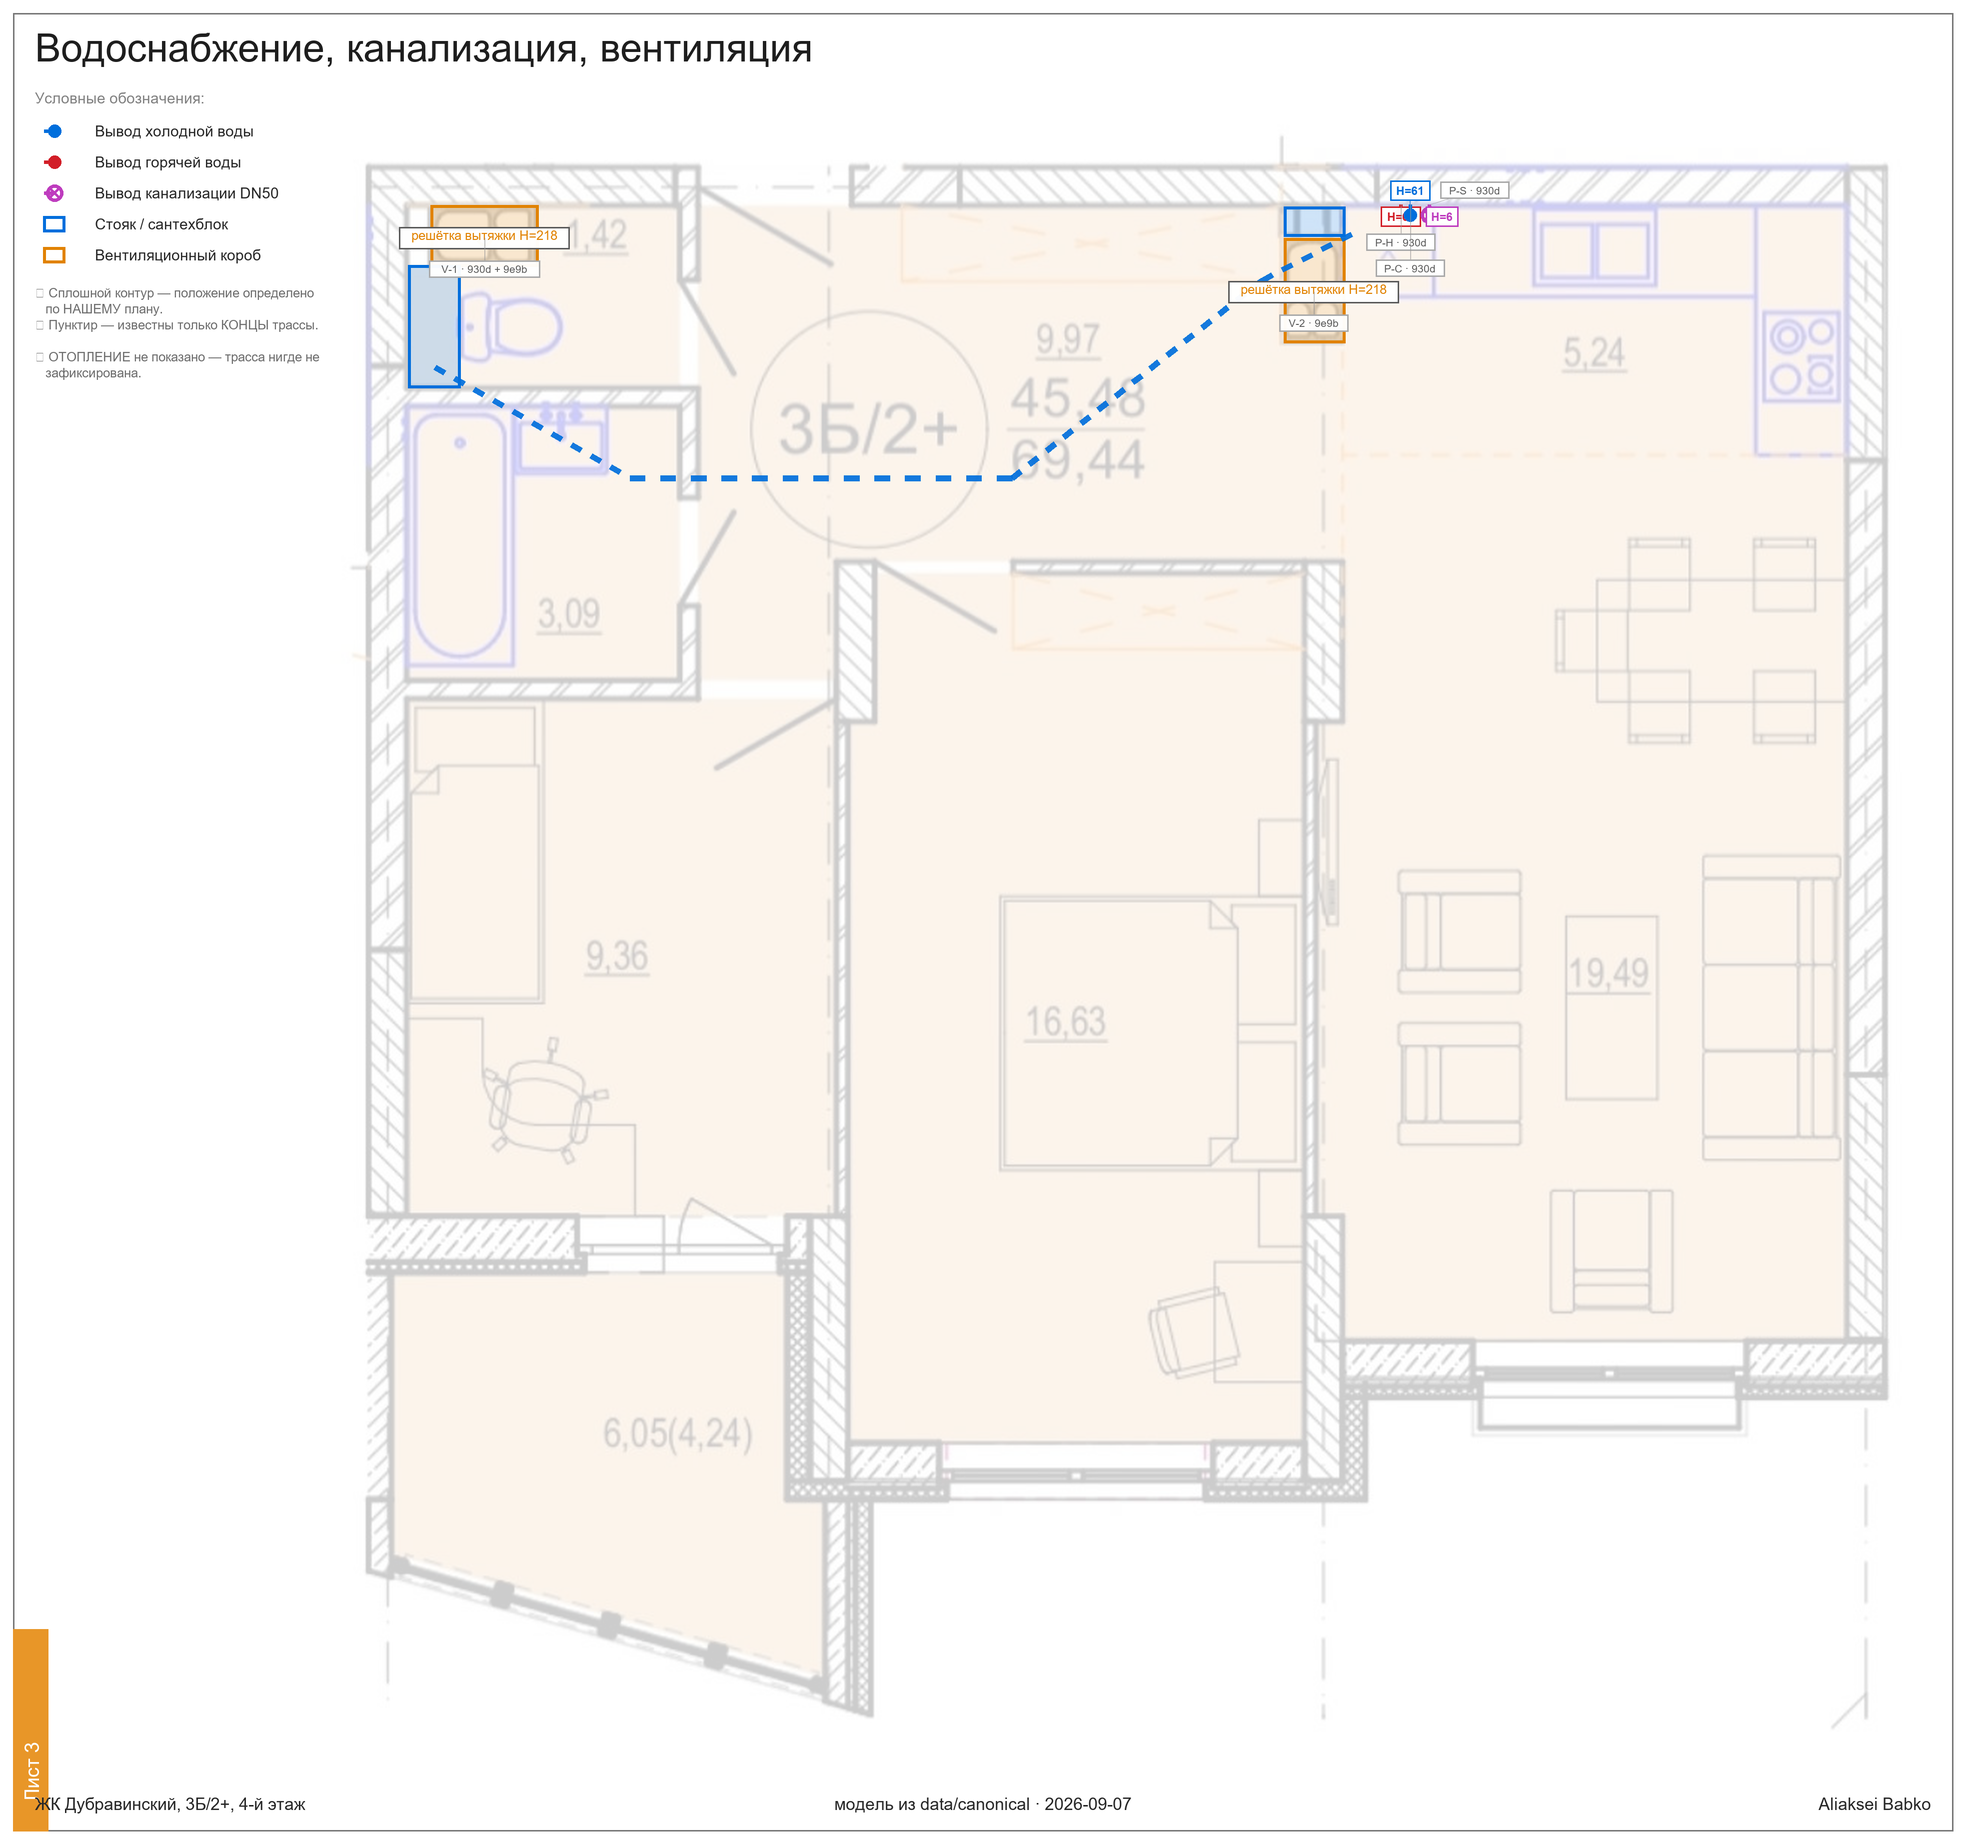
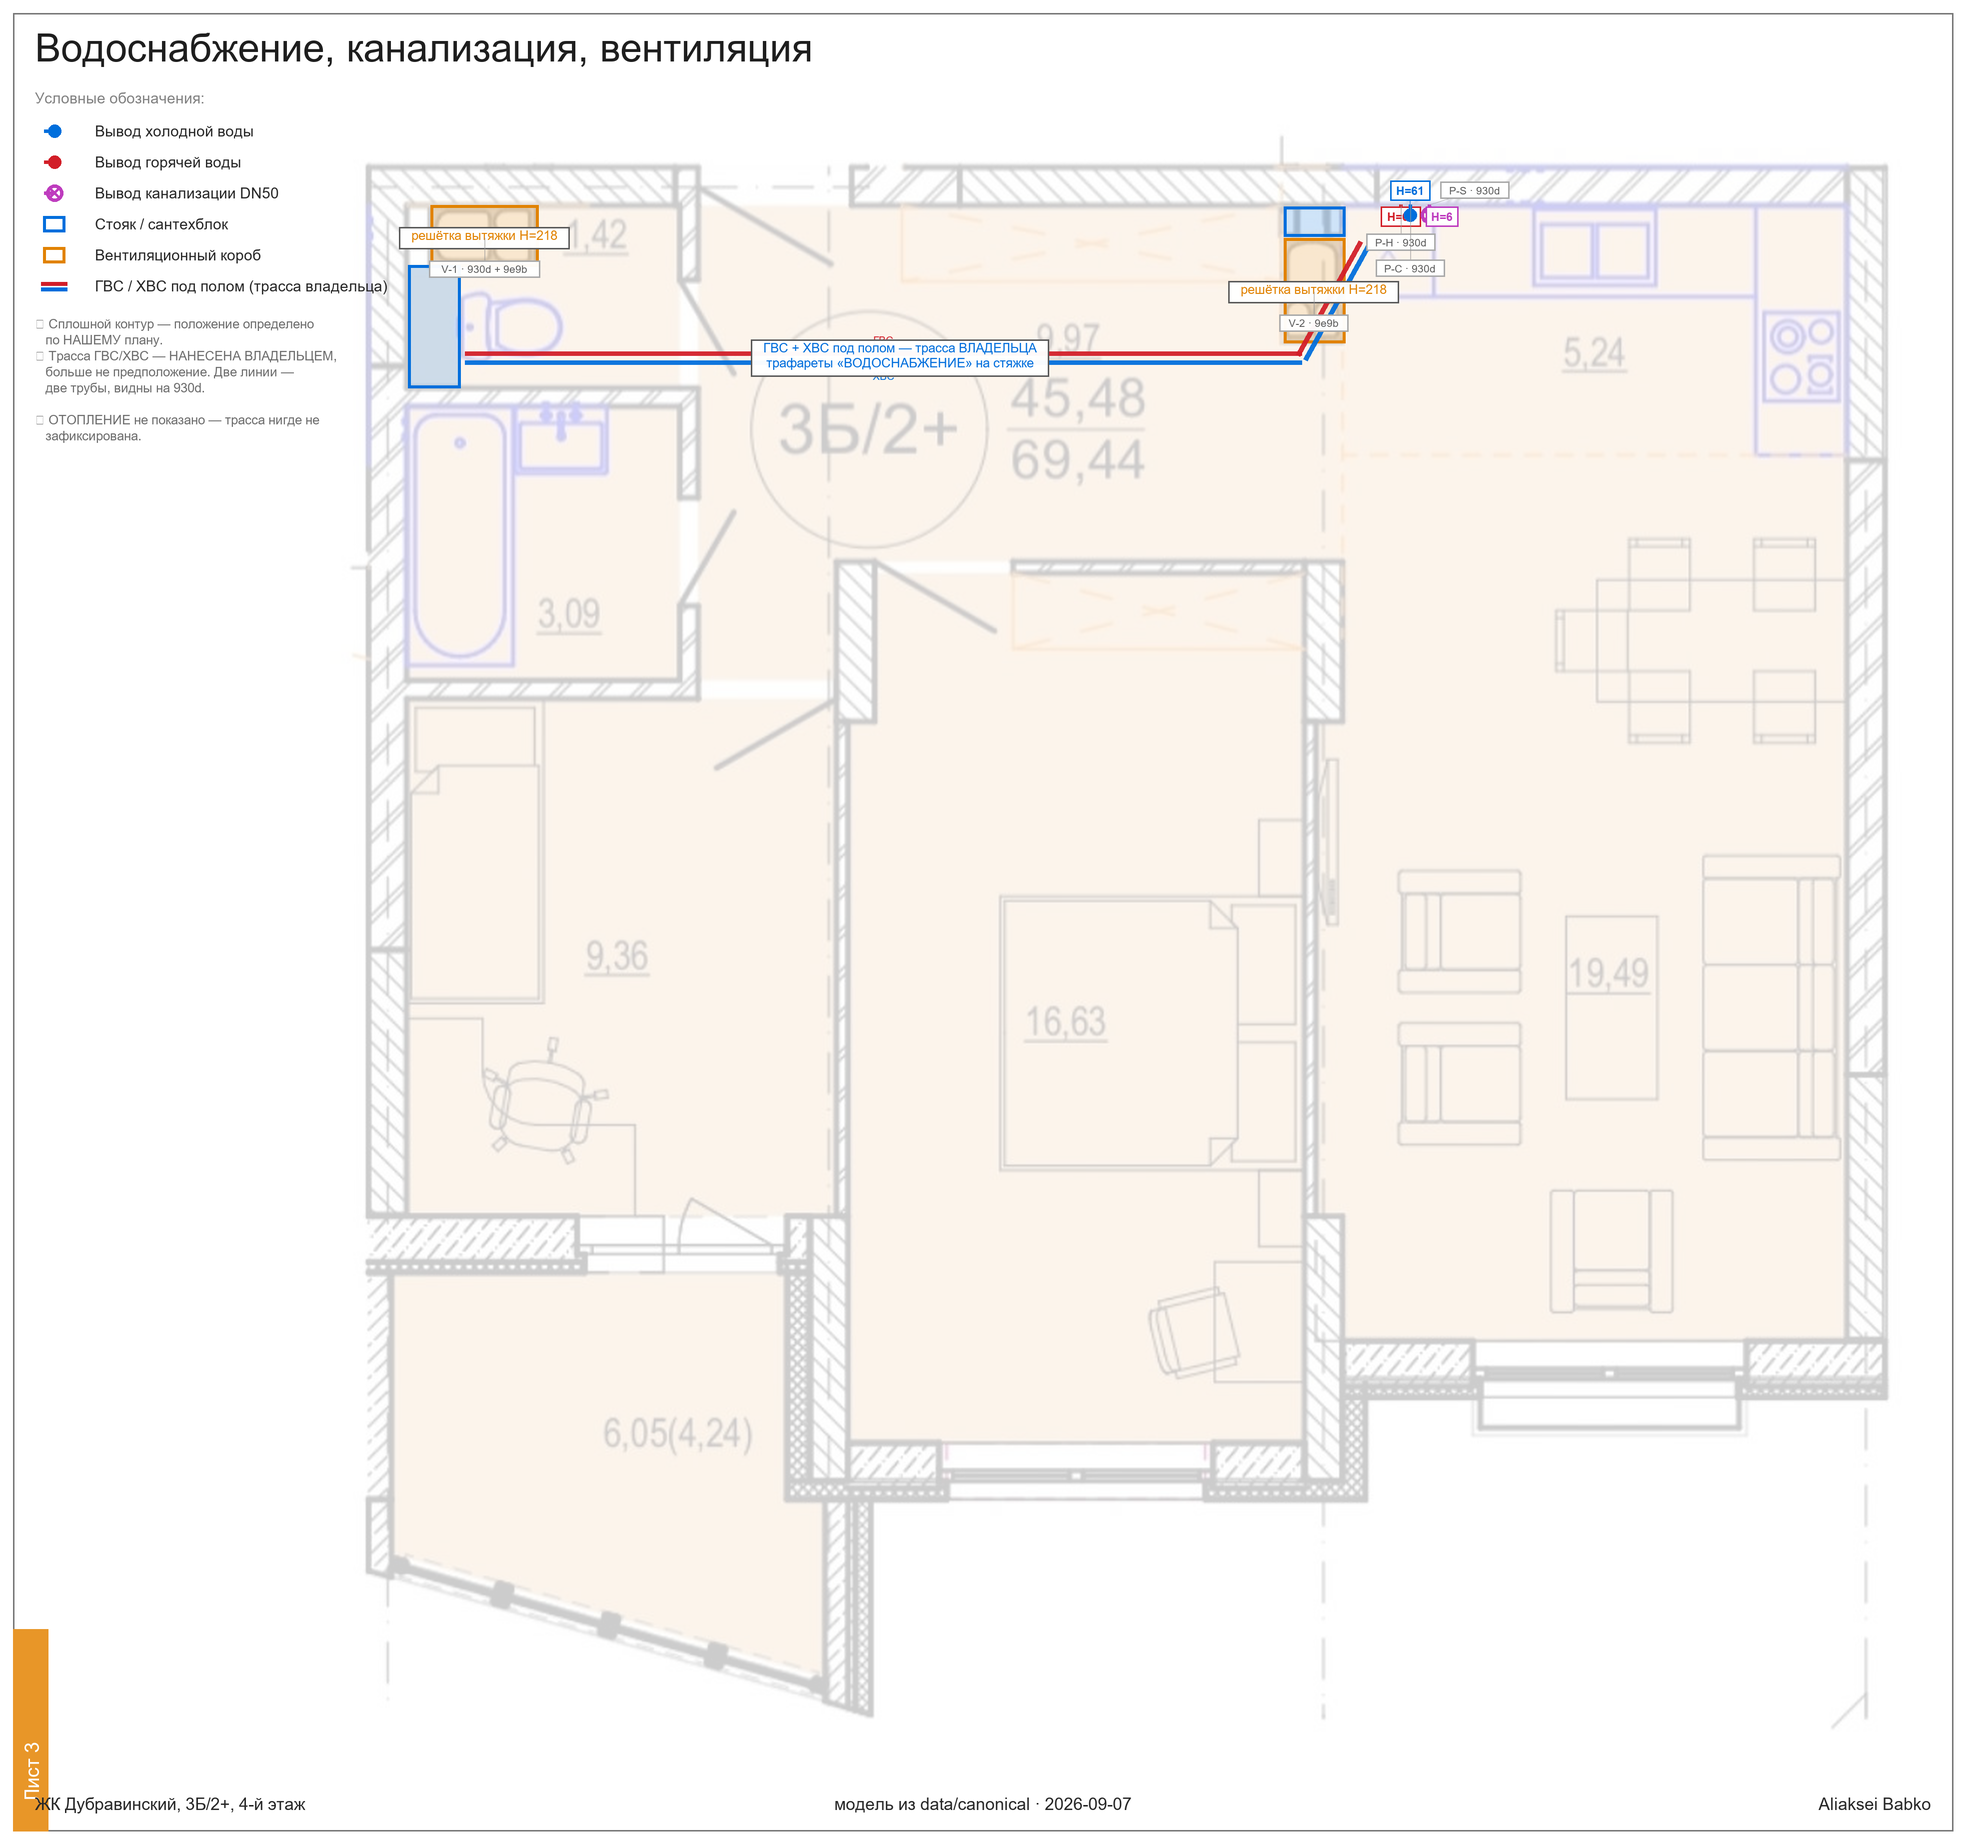
The owner drew the water route - and it is two lines, not one
He drew the vodosnabzhenie run in red on sheet 3 and sent it back, replacing the
dashed guess the sheet had labelled as most in need of correction.

His route: out of P1, STRAIGHT EAST across the prikhozhaya at a constant level,
then ONE turn north up to the kitchen take-offs on G3.

Mine dog-legged south into the prikhozhaya and back up - longer, with two extra
bends. I had reasoned "shortest route" and then not drawn the shortest route.

DRAWN AS TWO LINES, NOT ONE. 930d shows two pipes rising out of the floor, red
hot and blue cold, so the route is two parallel solid lines. That is not
decoration: a single line invites a single chase, and there are two pipes with a
~100 mm spacing to accommodate.

And it is now SOLID. Dashed meant "only the ends are known"; it is his line, so
the legend says NANESENA VLADELTSEM rather than describing a guess.

The consequence worth naming: the run crosses the prikhozhaya FLOOR and passes
under G4C. So any floor work there - levelling, a chase for anything else,
fixings into the screed - has to respect it, and it is the one service route that
runs through a circulation space rather than along a wall. Worth marking on site
before the screed gets covered, which is presumably why the VODOSNABZHENIE
stencils are there in the first place.

Still missing: the HEATING route. Now the only unrecorded service, and the one I
twice believed was recorded because I misread these very stencils.

verify_batch PASS.

Changed region(s): [[0.2172, 0.1855, 0.6826, 0.2164], [0.0, 0.1546, 0.1862, 0.2473], [0.6826, 0.1236, 0.7136, 0.1546]]

diff --git a/tools/layout/sheets/make_services_sheets.py b/tools/layout/sheets/make_services_sheets.py
@@ -221,24 +221,41 @@ s3.legend(lambda x, y, c: s3.d.rectangle([x - 22, y - 16, x + 22, y + 16], outli
           u'Стояк / сантехблок', B)
 s3.legend(lambda x, y, c: s3.d.rectangle([x - 22, y - 16, x + 22, y + 16], outline=c, width=6),
           u'Вентиляционный короб', OR)
+s3.legend(lambda x, y, c: [s3.d.line([(x - 26, y - 5), (x + 26, y - 5)], fill=R, width=8),
+                           s3.d.line([(x - 26, y + 6), (x + 26, y + 6)], fill=B, width=8)],
+          u'ГВС / ХВС под полом (трасса владельца)', B)
 s3.note([u'✅ Сплошной контур — положение определено',
          u'   по НАШЕМУ плану.',
-         u'⚠ Пунктир — известны только КОНЦЫ трассы.', u'',
+         u'✅ Трасса ГВС/ХВС — НАНЕСЕНА ВЛАДЕЛЬЦЕМ,',
+         u'   больше не предположение. Две линии —',
+         u'   две трубы, видны на 930d.', u'',
          u'✕ ОТОПЛЕНИЕ не показано — трасса нигде не',
          u'   зафиксирована.'])
 for bid, (x0, y0, x1, y1), col in (('V1', (67, 70, 139, 111), OR), ('V2', (636, 92, 677, 162), OR),
                                    ('P1', (52, 110, 87, 192), B), ('P2', (636, 71, 677, 91), B)):
     p0, p1 = s3.P((x0, y0)), s3.P((x1, y1))
     s3.d.rectangle([p0[0], p0[1], p1[0], p1[1]], fill=col + (48,), outline=col, width=6)
-ROUTE = [(70, 178), (200, 252), (455, 252), (622, 120), (688, 86)]
-for i in range(len(ROUTE) - 1):
-    a, b = s3.P(ROUTE[i]), s3.P(ROUTE[i + 1])
-    n = max(2, int((abs(b[0] - a[0]) + abs(b[1] - a[1])) / 30))
-    for k in range(0, n, 2):
-        t0, t1 = k / float(n), min(1.0, (k + 1) / float(n))
-        s3.d.line([(a[0] + (b[0] - a[0]) * t0, a[1] + (b[1] - a[1]) * t0),
-                   (a[0] + (b[0] - a[0]) * t1, a[1] + (b[1] - a[1]) * t1)],
-                  fill=B + (235,), width=12)
+# ВОДОСНАБЖЕНИЕ under the floor, drawn by the OWNER on sheet 3 and
+# replacing my dashed guess. His line: out of P1, straight EAST across the
+# прихожая at a constant level, then ONE turn north up to the kitchen
+# take-offs. My guess dog-legged south first and then back up - longer, and
+# wrong. Two parallel lines because 930d shows TWO pipes rising from the floor,
+# red hot and blue cold.
+ROUTE = [(90, 172), (648, 172), (690, 96)]
+for off, col, lbl in ((-3.0, R, u'ГВС'), (3.0, B, u'ХВС')):
+    for i in range(len(ROUTE) - 1):
+        (x0, y0), (x1, y1) = ROUTE[i], ROUTE[i + 1]
+        dx, dy = x1 - x0, y1 - y0
+        L = (dx * dx + dy * dy) ** 0.5
+        px_, py_ = -dy / L * off, dx / L * off
+        a = s3.P((x0 + px_, y0 + py_))
+        b = s3.P((x1 + px_, y1 + py_))
+        s3.d.line([a, b], fill=col + (240,), width=9)
+    m = s3.P(((ROUTE[0][0] + ROUTE[1][0]) / 2.0, ROUTE[0][1] + off * 4))
+    s3.d.text(m, lbl, fill=col, font=s3.f_src, anchor='mm')
+s3.callout(*(list(s3.P((380, 172))) + [[u'ГВС + ХВС под полом — трасса ВЛАДЕЛЬЦА',
+                                        u'трафареты «ВОДОСНАБЖЕНИЕ» на стяжке'], B]))
+
 PIPES = [('P-H', 'G3', 0.055, +1, R, 'water', 61, u'горячая, из пола', '930d'),
          ('P-C', 'G3', 0.075, +1, B, 'water', 61, u'холодная, из пола', '930d'),
          ('P-S', 'G3', 0.115, +1, MG, 'sewer', 6, u'канализация DN50', '930d')]
